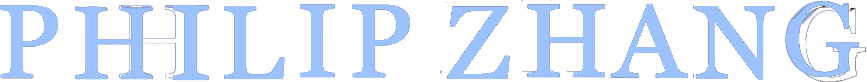
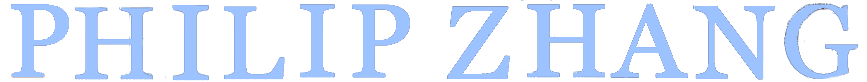
Minor edits
Changed color of "project.html"
Edit the name image
Changed the color of the icon for the website

diff --git a/popup.html b/popup.html
@@ -2,10 +2,10 @@
 
 <head>
     <!This is just for fun>
-    <title>WARNING! THIS IS IMPORTANT!</title>
+    <title>Contact Me</title>
     <link rel="stylesheet" type ="text/css" href= "CSS/popup.css">
 </head>
 
 <body id= "popup">
-    <p>Please Hire Me Now!</p>
+    <p>Still Looking for a Co-op Job!</p>
 </body>

diff --git a/CSS/popup.css b/CSS/popup.css
@@ -1,9 +1,9 @@
 #popup {
-    background-color: gray;
+    background-color: #2f2e2e;
 }
 
 p {
     text-align: center;
     font-size: 25px;
-    color: white;
+    color: rgb(156, 194, 255);
 }

diff --git a/CSS/projects.css b/CSS/projects.css
@@ -1,6 +1,5 @@
-/*Projects.html*/
 #projects {
-    background-color: black;
+    background-color: rgb(32, 32, 33);
 }
 
 /* Slideshow container */
